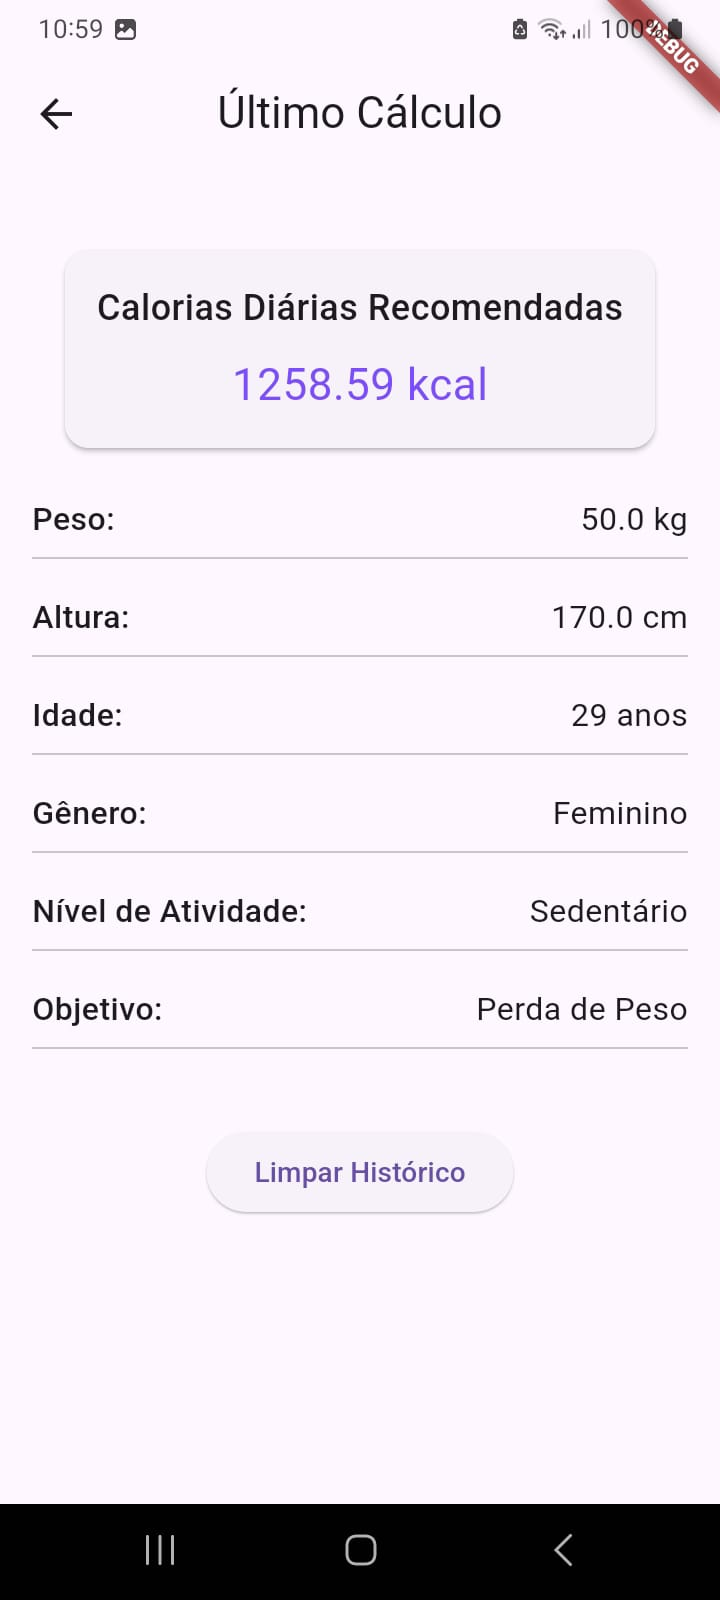
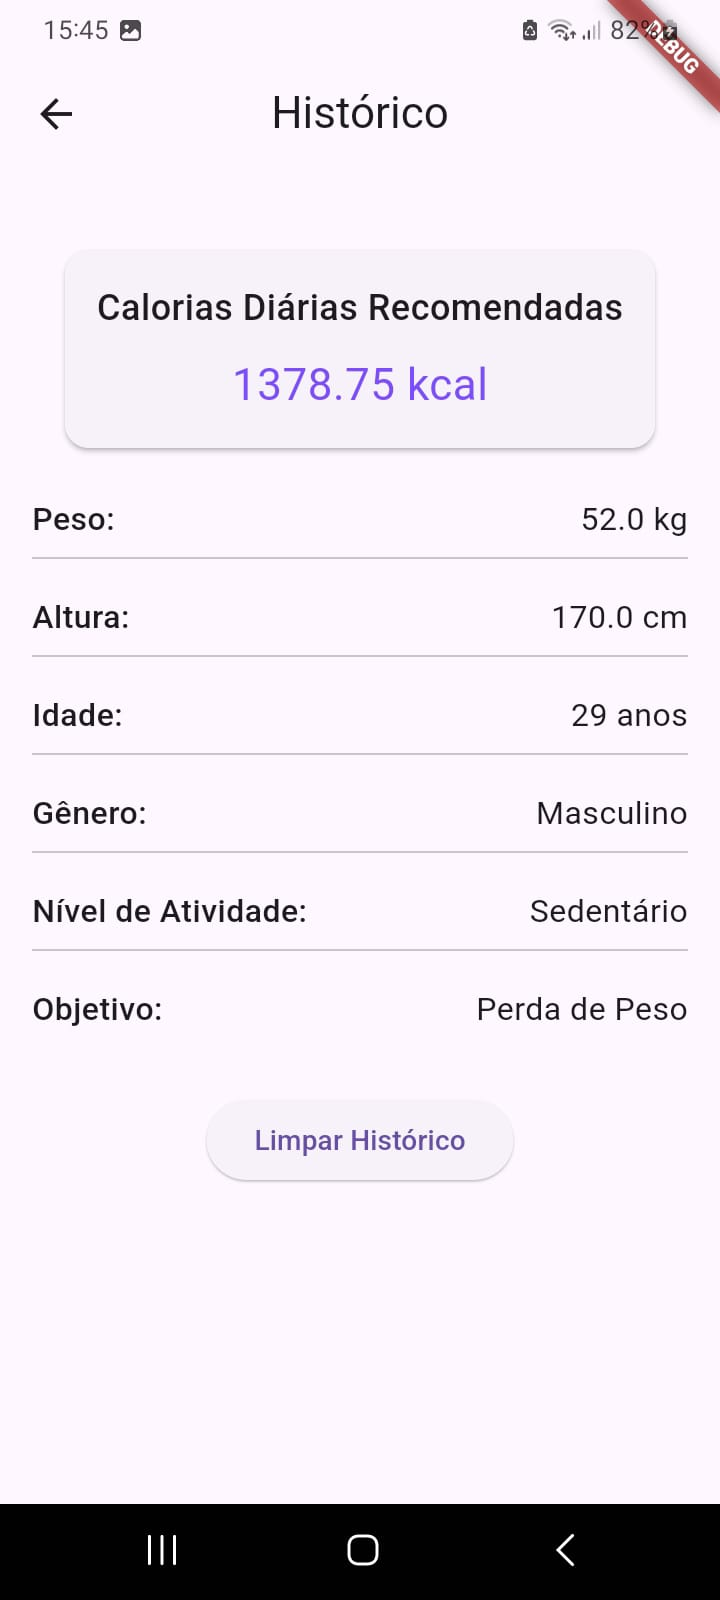
ajustes gerais

diff --git a/lib/presentation/pages/user_input_page.dart b/lib/presentation/pages/user_input_page.dart
@@ -52,32 +52,35 @@ class _UserInputScreenState extends State<UserInputScreen> {
             child: Column(
               children: [
                 TextFormFildWidget(
-                  label: 'Qual é o seu Peso (kg)',
+                  label: 'Peso (kg)',
                   controller: _weightController,
                   keyboardType: TextInputType.number,
                   hintText: 'Digite seu Peso (kg)',
-                  validator: (value) => Validation.validateNotEmpty(value),
+                  validator: (value) =>
+                      Validation.validateIfTextIsNotEmpty(value),
                   textInputAction: TextInputAction.next,
                   inputFormatters: [
                     FilteringTextInputFormatter.digitsOnly,
                   ],
                 ),
                 TextFormFildWidget(
-                  label: 'Qual é a sua altura? (cm)',
+                  label: 'Altura (cm)',
                   controller: _heightController,
                   keyboardType: TextInputType.number,
-                  hintText: 'Digite sua altura (em cm)',
-                  validator: (value) => Validation.validateNotEmpty(value),
+                  hintText: 'Digite sua altura (cm)',
+                  validator: (value) =>
+                      Validation.validateIfTextIsNotEmpty(value),
                   textInputAction: TextInputAction.next,
                   inputFormatters: [
                     FilteringTextInputFormatter.digitsOnly,
                   ],
                 ),
                 TextFormFildWidget(
-                  label: 'Qual é a sua idade?',
+                  label: 'Idade',
                   controller: _ageController,
                   keyboardType: TextInputType.number,
-                  validator: (value) => Validation.validateNotEmpty(value),
+                  validator: (value) =>
+                      Validation.validateIfTextIsNotEmpty(value),
                   hintText: 'Digite sua idade',
                   textInputAction: TextInputAction.next,
                   inputFormatters: [
@@ -85,7 +88,7 @@ class _UserInputScreenState extends State<UserInputScreen> {
                   ],
                 ),
                 DropdownWidget(
-                    label: 'Qual é o seu Gênero?',
+                    label: 'Gênero',
                     options: const ['Masculino', 'Feminino'],
                     currentValue: _gender,
                     onChanged: (value) {

diff --git a/lib/presentation/pages/history_page.dart b/lib/presentation/pages/history_page.dart
@@ -40,7 +40,7 @@ class _HistoryScreenState extends State<HistoryScreen> {
     return Scaffold(
       appBar: AppBar(
         title: const Text(
-          'Último Cálculo',
+          'Histórico',
         ),
         centerTitle: true,
       ),
@@ -76,8 +76,10 @@ class _HistoryScreenState extends State<HistoryScreen> {
                       value:
                           _lastCalculation!['activityLevel'] ?? 'Desconhecido'),
                   ResultRowWidget(
-                      label: 'Objetivo:',
-                      value: _lastCalculation!['goal'] ?? 'Desconhecido'),
+                    label: 'Objetivo:',
+                    value: _lastCalculation!['goal'] ?? 'Desconhecido',
+                    hasDivider: false,
+                  ),
                   const SizedBox(height: 20),
                   ElevatedButton(
                     onPressed: _clearHistory,

diff --git a/lib/presentation/pages/result_page.dart b/lib/presentation/pages/result_page.dart
@@ -27,12 +27,6 @@ class ResultScreen extends StatelessWidget {
   Widget build(BuildContext context) {
     return Scaffold(
       appBar: AppBar(
-        title: const Text(
-          'Resultado do Cálculo',
-          style: TextStyle(
-            fontWeight: FontWeight.bold,
-          ),
-        ),
         centerTitle: true,
       ),
       body: Padding(
@@ -52,7 +46,11 @@ class ResultScreen extends StatelessWidget {
             ResultRowWidget(label: 'Idade:', value: '$age anos'),
             ResultRowWidget(label: 'Gênero:', value: gender),
             ResultRowWidget(label: 'Nível de Atividade:', value: activityLevel),
-            ResultRowWidget(label: 'Objetivo:', value: goal),
+            ResultRowWidget(
+              label: 'Objetivo:',
+              value: goal,
+              hasDivider: false,
+            ),
           ],
         ),
       ),

diff --git a/lib/presentation/widgets/result_row_widget.dart b/lib/presentation/widgets/result_row_widget.dart
@@ -5,9 +5,11 @@ class ResultRowWidget extends StatelessWidget {
     super.key,
     required this.label,
     required this.value,
+    this.hasDivider = true,
   });
   final String label;
   final String value;
+  final bool hasDivider;
 
   @override
   Widget build(BuildContext context) {
@@ -29,7 +31,7 @@ class ResultRowWidget extends StatelessWidget {
               ),
             ],
           ),
-          const Divider(),
+          if (hasDivider) const Divider(),
         ],
       ),
     );

diff --git a/lib/core/utils/validation.dart b/lib/core/utils/validation.dart
@@ -1,5 +1,5 @@
 abstract class Validation {
-  static String? validateNotEmpty(String? value) {
+  static String? validateIfTextIsNotEmpty(String? value) {
     if (value == null || value.isEmpty) {
       return 'Esse campo não pode ser vazio';
     }

diff --git a/README.md b/README.md
@@ -32,7 +32,7 @@ Siga os passos abaixo para rodar o aplicativo localmente:
 1. **Clone o repositório:**
 
    ```bash
-   git clone https://github.com/RafaellaBarbosa/calorie_calculator
+   git clone https://github.com/RafaellaBarbosa/calorie_calculator.git
    ```
 
 2. **Instale as dependências:**
